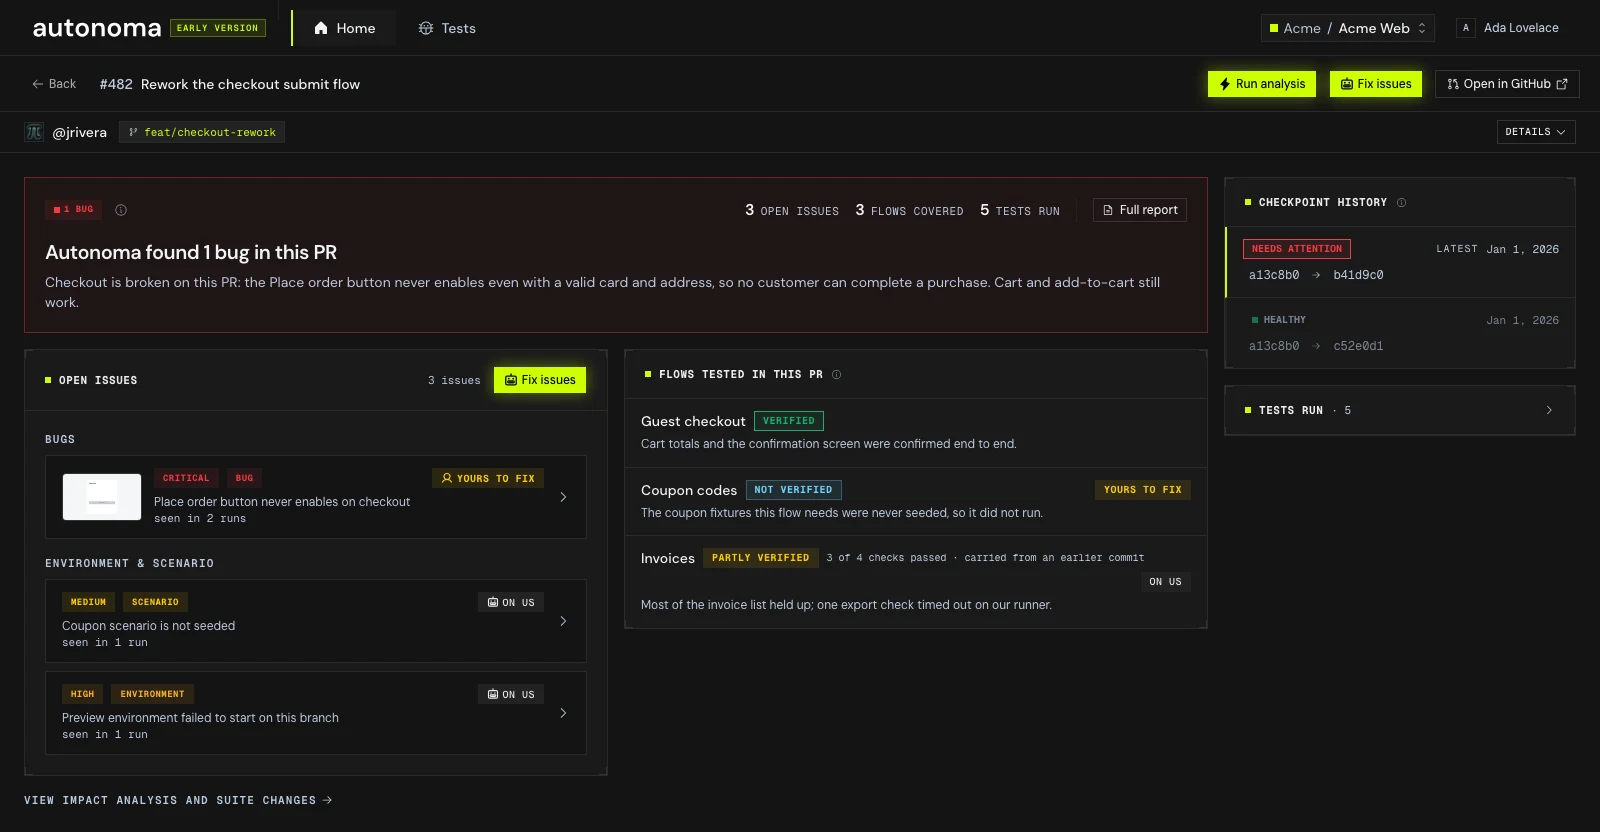
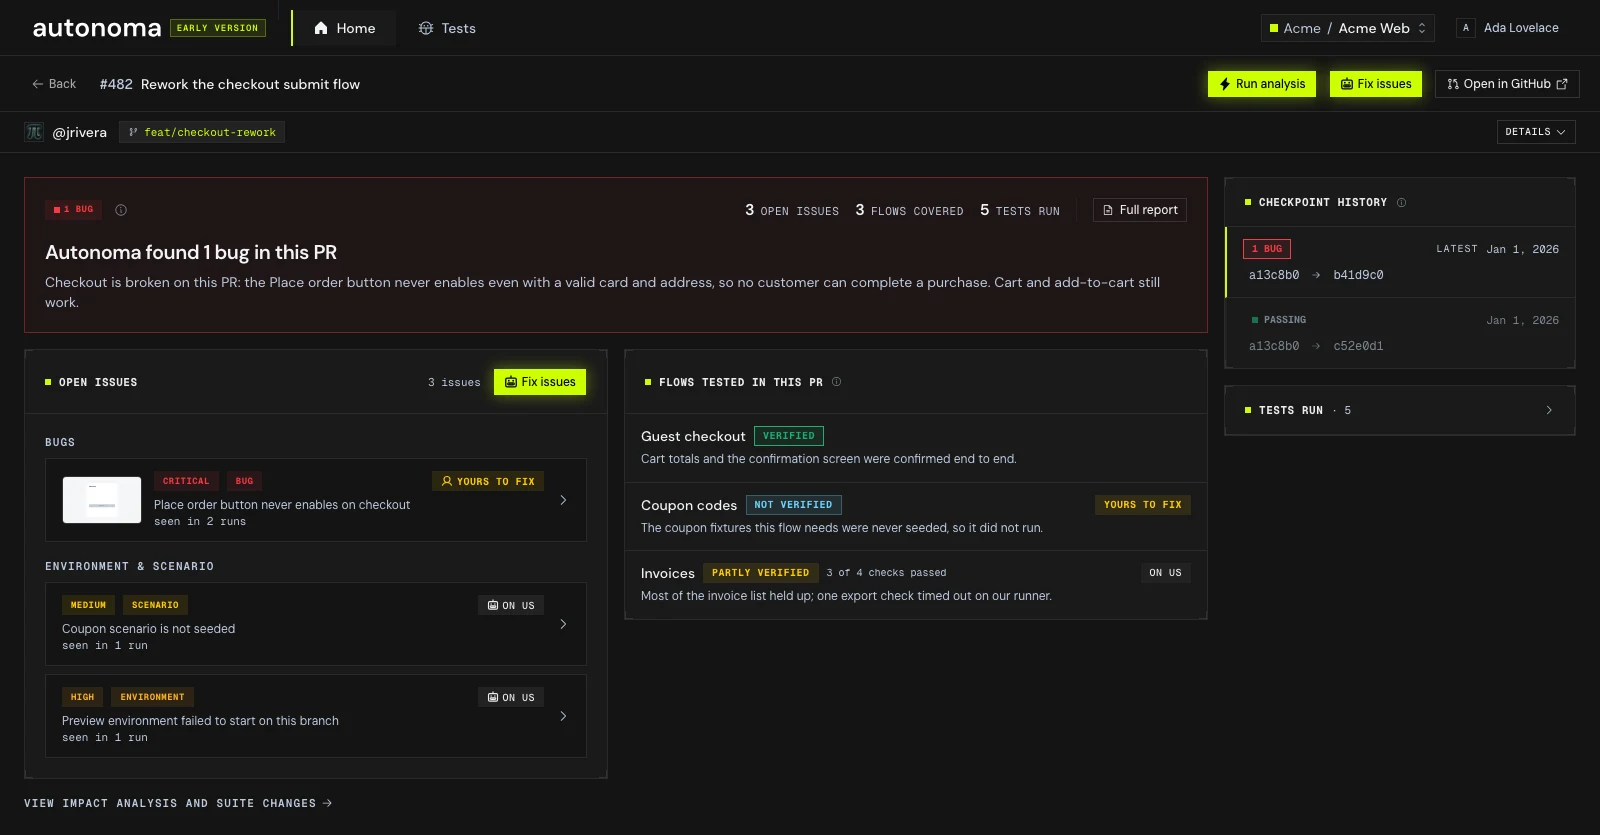
fix: tidy PR overview flow/issue panels and correct checkpoint fixtures (#2876)

diff --git a/packages/types/src/schemas/analysis.ts b/packages/types/src/schemas/analysis.ts
@@ -607,14 +607,21 @@ const CARRIED_NOTE = "carried from an earlier commit";
  * A partial flow always states how much of it held up - three passing checks beside one that could not run is not the
  * same reading as four that could not, and collapsing them is the pessimism the itemization exists to remove.
  * Returns undefined when there is nothing to add beyond the flow's own status, so a caller can omit the line.
+ *
+ * `includeCarriedNote` lets a surface whose whole frame is already cumulative - the PR page's flow list - omit the
+ * "carried from an earlier commit" note, which reads as noise there; the per-run surfaces (PR comment, fix prompt)
+ * keep it, so it stays one function rather than each re-deriving the "N of M passed" half.
  */
-export function analysisFlowComposition(flow: AnalysisFlow): string | undefined {
+export function analysisFlowComposition(
+    flow: AnalysisFlow,
+    { includeCarriedNote = true }: { includeCarriedNote?: boolean } = {},
+): string | undefined {
     const total = flow.testSlugs.length;
     const parts: string[] = [];
     if (flow.passedCount > 0 && flow.passedCount < total) {
         parts.push(`${flow.passedCount} of ${total} ${total === 1 ? "check" : "checks"} passed`);
     }
-    if (flow.checkedThisRunCount === 0) parts.push(CARRIED_NOTE);
+    if (includeCarriedNote && flow.checkedThisRunCount === 0) parts.push(CARRIED_NOTE);
     return parts.length > 0 ? parts.join(" \u00b7 ") : undefined;
 }
 

diff --git a/apps/ui/src/components/analysis/flow-list.tsx b/apps/ui/src/components/analysis/flow-list.tsx
@@ -94,7 +94,9 @@ export function AnalysisFlowList({ flows, findings }: { flows: AnalysisFlow[]; f
 
   return (
     <Panel>
-      <PanelHeader>
+      {/* min-h matches the open-issues panel's header so the two read level side by side (that one carries a button,
+          this one only text). */}
+      <PanelHeader className="min-h-16">
         <PanelTitle>
           Flows tested in this PR
           <InfoHint ariaLabel="What a flow is" className="text-text-secondary">
@@ -131,7 +133,9 @@ function resolveFlowFindings(
 function FlowRow({ flow, findings }: { flow: AnalysisFlow; findings: AnalysisFindingView[] }) {
   const status = FLOW_STATUS_META[flow.status];
   const owner = FLOW_OWNER_META[flow.owner];
-  const composition = analysisFlowComposition(flow);
+  // This panel's whole frame is the PR's cumulative state, so the "carried from an earlier commit" note reads as
+  // noise here - keep only the "N of M checks passed" half of the composition.
+  const composition = analysisFlowComposition(flow, { includeCarriedNote: false });
   // Every cited test resolved to a finding this run, so the dropdown accounts for the whole set the header counts
   // from. When some are carried over (their findings live at an earlier snapshot), show none rather than a subset
   // the cumulative status/composition would contradict.

diff --git a/apps/ui/src/stories/authoritative-pr-page.stories.tsx b/apps/ui/src/stories/authoritative-pr-page.stories.tsx
@@ -300,7 +300,8 @@ const snapshotHistory: NonNullable<TrpcFixtures["branches"]>["snapshotHistory"] 
     createdAt: RUN_AT,
     prevSnapshotId: PREV_SNAPSHOT_ID,
     tone: "critical",
-    label: "Needs attention",
+    // The real pill labels a bug-found checkpoint "N bug(s)" (derivePresentation), never a generic "Needs attention".
+    label: "1 bug",
     passing: 2,
     failing: 1,
   }),
@@ -310,7 +311,8 @@ const snapshotHistory: NonNullable<TrpcFixtures["branches"]>["snapshotHistory"] 
     createdAt: PREV_RUN_AT,
     prevSnapshotId: null,
     tone: "success",
-    label: "Healthy",
+    // A fully-verified checkpoint reads "Passing" from derivePresentation, not "Healthy".
+    label: "Passing",
     passing: 3,
     failing: 0,
   }),

diff --git a/apps/ui/src/components/analysis/open-issues-list.tsx b/apps/ui/src/components/analysis/open-issues-list.tsx
@@ -15,7 +15,9 @@ export function AnalysisOpenIssuesList({ issues, prNumber }: { issues: AnalysisI
 
   return (
     <Panel>
-      <PanelHeader>
+      {/* min-h matches the flows panel's header so the two read level side by side, despite this one carrying the
+          taller "Fix issues" button and that one only text. */}
+      <PanelHeader className="min-h-16">
         <PanelTitle>Open issues</PanelTitle>
         <div className="flex items-center gap-3">
           <span className="font-mono text-2xs text-text-secondary">
